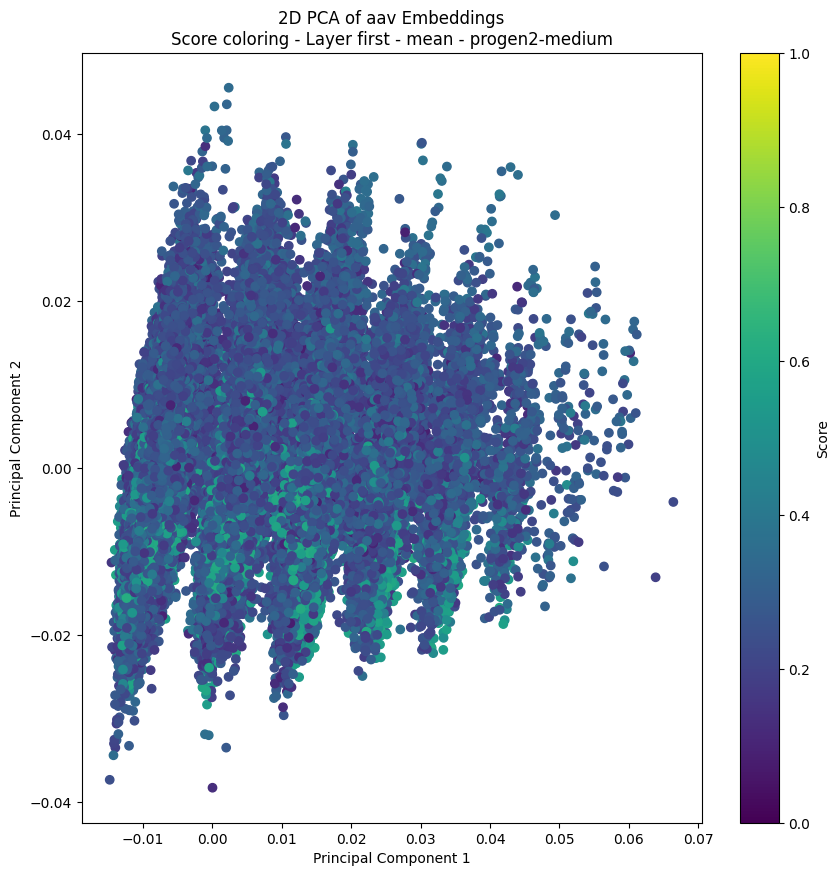
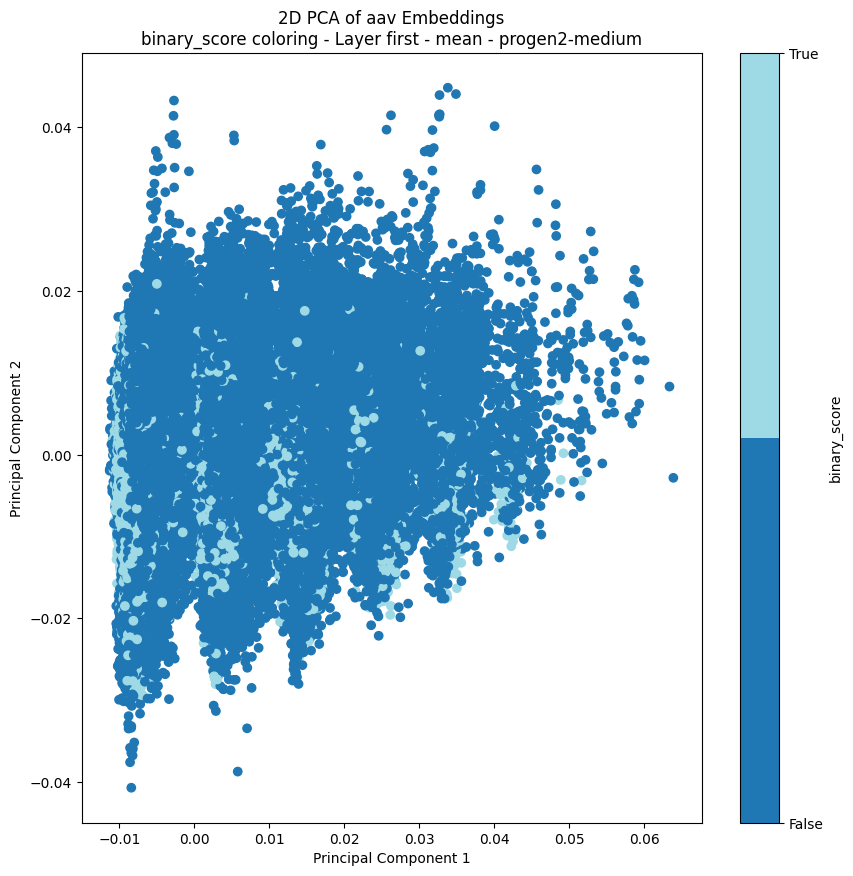
New PCA graphs

diff --git a/scripts/visualize_embeddings.py b/scripts/visualize_embeddings.py
@@ -8,19 +8,19 @@ import pandas as pd
 import plmfit.shared_utils.utils as utils
 
 layers = ['last']
-data_type = 'meltome'
-model = 'progen2-small'
-reduction = 'mean'
+data_type = 'aav'
+model = 'progen2-xlarge'
+reduction = 'bos'
 
 # Define human-related species to be consolidated
-human_species = ['HepG2', 'HAOEC', 'colon_cancer', 'HL60', 'HEK293T',
-                 'U937', 'Jurkat', 'HaCaT', 'K562', 'pTcells']
+# human_species = ['HepG2', 'HAOEC', 'colon_cancer', 'HL60', 'HEK293T',
+#                  'U937', 'Jurkat', 'HaCaT', 'K562', 'pTcells']
 
 data = utils.load_dataset(data_type=data_type)
 # Extract species from the identifier and consolidate human-related species
-data['species'] = data['id'].apply(
-    lambda x: 'Homo_sapiens' if any(human in x for human in human_species) else '_'.join(
-        x.split('_')[1:3]) if len(x.split('_')) > 3 else '_'.join(x.split('_')[1:])
-)
+# data['species'] = data['id'].apply(
+#     lambda x: 'Homo_sapiens' if any(human in x for human in human_species) else '_'.join(
+#         x.split('_')[1:3]) if len(x.split('_')) > 3 else '_'.join(x.split('_')[1:])
+# )
 
-de.PCA_2d(data_type=data_type, model=model, layers=layers, reduction=reduction, labels_col='species', labeling='discrete', custom_data=data)
+de.PCA_2d(data_type=data_type, model=model, layers=layers, reduction=reduction, labels_col='binary_score', labeling='discrete')
